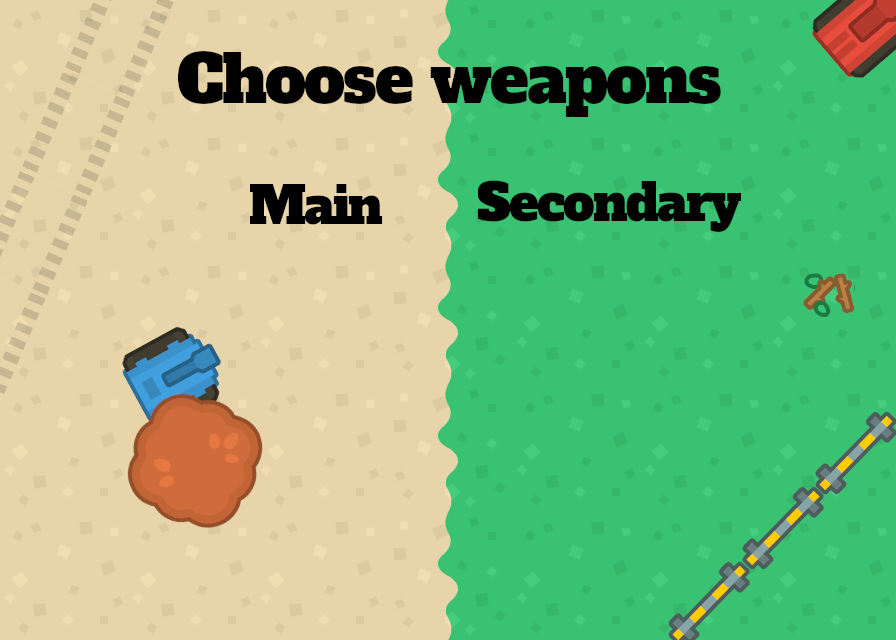
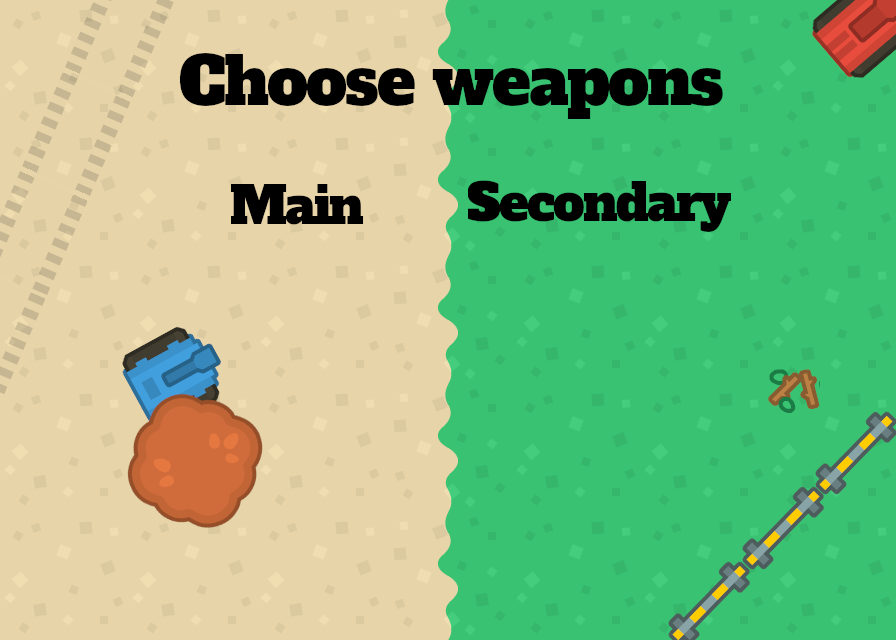
esto ya es mas robusto q el pan bimbo

diff --git a/docs/server.js b/docs/server.js
@@ -38,90 +38,95 @@ app.use('/menus', express.static('menus'));
 
 
 io.on('connection', socket => {
-  if(clients.length<2){
-      console.log('a user connected');
-      clients.push(socket);
+  if (clients.length < 2) {
+    console.log('a user connected');
+    clients.push(socket);
 
 
 
-  clients[0].on('numeroJugador', () => { //simepre existira
-    let n = { numero: 0 };
-    clients[0].emit('numeroJugador', n);
-  });
-
-
-  if (clients[1]) { //cuando se conecta el segundo jugador
-    clients[1].on('numeroJugador', () => {
-      let n = { numero: 1 };
-      clients[1].emit('numeroJugador', n);
+    clients[0].on('numeroJugador', () => { //simepre existira
+      let n = { numero: 0 };
+      clients[0].emit('numeroJugador', n);
     });
-  }
 
 
-  socket.on('numeroDeJugadores', numJugador => {
-      clients[numJugador].emit('numeroDeJugadores', clients.length);
-  })
+    if (clients[1]) { //cuando se conecta el segundo jugador
+      clients[1].on('numeroJugador', () => {
+        let n = { numero: 1 };
+        clients[1].emit('numeroJugador', n);
+      });
+    }
 
 
-  this.jugadoresEsperando = { jugador1: false, jugador2: false }
-  socket.on('empezar', numJugador => { //cuando se le da a empezar partida
-    if (clients.length == 2) {
-      if (numJugador == 0) this.jugadoresEsperando.jugador1 = true;
-      else this.jugadoresEsperando.jugador2 = true;
-
-      console.log(this.jugadoresEsperando);
-      if (!this.jugadoresEsperando.jugador1 || !this.jugadoresEsperando.jugador2) {
-        socket.emit("respuestaJugadoresEsperando", false); //solo tiene que avisar a uno de los dos
-      }
+    socket.on('numeroDeJugadores', () => { //avisa a los dos para q empiecen a la vez
+      if (clients.length == 1) clients[0].emit('numeroDeJugadores', clients.length);
       else {
-        clients[0].emit("respuestaJugadoresEsperando", true); //solo tiene que avisar a uno de los dos
-        clients[1].emit("respuestaJugadoresEsperando", true); //solo tiene que avisar a uno de los dos
-      } //avisa a los dos aun q de momento esto peta (creo)
-    }
-    else console.log("Falta un jugador por conectarse");
-  })
+        clients[0].emit('numeroDeJugadores', clients.length);
+        clients[1].emit('numeroDeJugadores', clients.length);
+      }
+
+    })
 
 
-  socket.on('update', data => { //actualiza al jugador 2
-    if (clients.length == 2) clients[1].emit('update', data); //se lo envia directo
-  })
-
-
-  socket.on('explosion', data => {
-    clients[1].emit('explosion', data);
-  })
-
-
-  socket.on('updateP2', data => {
-    clients[0].emit('updateP2', data);
-  });
-
-  socket.on('disparoP2', data => {
-    clients[0].emit('disparoJ2', data);
-  });
-
-
-  socket.on('finDeJuego', perdedor => {
     this.jugadoresEsperando = { jugador1: false, jugador2: false }
+    socket.on('empezar', numJugador => { //cuando se le da a empezar partida
+      if (clients.length == 2) {
+        if (numJugador == 0) this.jugadoresEsperando.jugador1 = true;
+        else this.jugadoresEsperando.jugador2 = true;
 
-    console.log('Perdedor: ' + perdedor);
+        console.log(this.jugadoresEsperando);
+        if (!this.jugadoresEsperando.jugador1 || !this.jugadoresEsperando.jugador2) {
+          socket.emit("respuestaJugadoresEsperando", false); //solo tiene que avisar a uno de los dos
+        }
+        else {
+          clients[0].emit("respuestaJugadoresEsperando", true); //solo tiene que avisar a uno de los dos
+          clients[1].emit("respuestaJugadoresEsperando", true); //solo tiene que avisar a uno de los dos
+        } //avisa a los dos aun q de momento esto peta (creo)
+      }
+      else console.log("Falta un jugador por conectarse");
+    })
 
-    if(perdedor == 0) clients[1].emit('finDeJuego', true);
-    else {
-      clients[0].emit('finDeJuego');
-      clients[1].emit('finDeJuego', false);
-    }
-  })
 
-  socket.on('sonido', sonido => {
-    clients[1].emit('sondip', sonido);
-  })
+    socket.on('update', data => { //actualiza al jugador 2
+      if (clients.length == 2) clients[1].emit('update', data); //se lo envia directo
+    })
 
 
-  socket.on('disconnect', () => {
-    console.log('a user disconnected');
-    clients.splice(clients.indexOf(socket), 1); // lo sacamos del array
-  });
+    socket.on('explosion', data => {
+      clients[1].emit('explosion', data);
+    })
+
+
+    socket.on('updateP2', data => {
+      clients[0].emit('updateP2', data);
+    });
+
+    socket.on('disparoP2', data => {
+      clients[0].emit('disparoJ2', data);
+    });
+
+
+    socket.on('finDeJuego', perdedor => {
+      this.jugadoresEsperando = { jugador1: false, jugador2: false }
+
+      console.log('Perdedor: ' + perdedor);
+
+      if (perdedor == 0) clients[1].emit('finDeJuego', true);
+      else {
+        clients[0].emit('finDeJuego');
+        clients[1].emit('finDeJuego', false);
+      }
+    })
+
+    socket.on('sonido', sonido => {
+      clients[1].emit('sondip', sonido);
+    })
+
+
+    socket.on('disconnect', () => {
+      console.log('a user disconnected');
+      clients.splice(clients.indexOf(socket), 1); // lo sacamos del array
+    });
   }
 });
 

diff --git a/docs/menus/menuArmas.js b/docs/menus/menuArmas.js
@@ -18,6 +18,7 @@ export default class MenuArmas extends Phaser.Scene {
         this.load.image('rebotador', 'assets/iconoRebotador.png');
         this.load.image('mortero', 'assets/iconoMortero.png');
         this.load.image('iconoSeleccion', 'assets/iconoSeleccionado.png');
+        this.load.image('waiting', 'assets/botonwaiting.png');
 
         this.load.audio('click', 'assets/menuclick.wav');
     }
@@ -25,13 +26,15 @@ export default class MenuArmas extends Phaser.Scene {
 
     create() {
         this.fondo = this.add.image(448, 320, 'fondoArmas'); //fondo provisional
-        this.botonSimple = this.add.image(325, 292, 'disparoSimple').setInteractive();
-        this.botonRafagas = this.add.image(325, 464, 'rafagas').setInteractive();
-        this.botonRebotador = this.add.image(608, 292, 'rebotador').setInteractive();
-        this.botonMortero = this.add.image(608, 464, 'mortero').setInteractive();
-        this.boton = this.add.image(470, 580, 'botonStart').setInteractive().setScale(0.5);
+        this.botonSimple = this.add.image(298, 292, 'disparoSimple').setInteractive();
+        this.botonRafagas = this.add.image(298, 464, 'rafagas').setInteractive();
+        this.botonRebotador = this.add.image(598, 292, 'rebotador').setInteractive();
+        this.botonMortero = this.add.image(598, 464, 'mortero').setInteractive();
+        this.boton = this.add.image(448, 580, 'botonStart').setInteractive().setScale(0.5);
         this.seleccionPrincipal = this.add.image(-50, -50, 'iconoSeleccion');
         this.seleccionSecundaria = this.add.image(-50, -50, 'iconoSeleccion');
+
+        this.botonClicked = false;
 
         this.clickAudio = this.sound.add('click');
         this.botonSimple.on('pointerdown', () => {
@@ -65,7 +68,9 @@ export default class MenuArmas extends Phaser.Scene {
 
         this.boton.on('pointerdown', () => {
             this.clickAudio.play();
-            if (this.armaPrincipalSeleccionada != "" && this.armaSecundariaSeleccionada != "") {
+            
+            if (this.armaPrincipalSeleccionada != "" && this.armaSecundariaSeleccionada != "" && !this.botonClicked) {
+                this.add.image(448, 375, 'waiting');
                 this.socket.emit("empezar", this.numPlayer); //avisa al server de que hay un juegador esprando
 
                 this.socket.on('respuestaJugadoresEsperando', comienzo => {
@@ -75,6 +80,7 @@ export default class MenuArmas extends Phaser.Scene {
                     }
                     else console.log("Esperando a otro jugador para empezar la partida");
                 })
+                this.botonClicked = true;
             };
         })
     }

diff --git a/docs/menus/menu.js b/docs/menus/menu.js
@@ -3,7 +3,7 @@ export default class Menu extends Phaser.Scene {
         super({ key: 'menu' });
     }
 
-    init(data){
+    init(data) {
         this.socket = data.s;
         this.numPlayer = data.numP;
     }
@@ -11,21 +11,34 @@ export default class Menu extends Phaser.Scene {
     preload() {
         this.load.image('botonPlay', 'assets/botonplay.png');
         this.load.image('fondoInicio', 'assets/fondoMenu.png');
+        this.load.image('onemoreneeded', 'assets/onemoreplayer.png')
 
         this.load.audio('click', 'assets/menuclick.wav');
     }
 
     create() {
         this.clickAudio = this.sound.add('click');
+
+        this.oneMore = true;
+
         this.add.image(448, 320, 'fondoInicio'); //fondo provisional
         this.boton = this.add.image(448, 268, 'botonPlay').setInteractive().setScale(0.7);
         this.boton.on('pointerdown', () => { //se le ha dado a jugar
             this.clickAudio.play();
-            this.socket.emit('numeroDeJugadores', this.numPlayer);
+            if(this.oneMore) this.add.image(448, 450, 'onemoreneeded');
+
+            this.socket.emit('numeroDeJugadores');
 
             this.socket.on('numeroDeJugadores', numero => {
-                if(numero == 2)this.scene.start('menuArmas',{s:this.socket, numP:this.numPlayer}); //main = el key de la escena Game
-            })            
+                if (numero == 2) {
+                    this.scene.start('menuArmas', { s: this.socket, numP: this.numPlayer }); //main = el key de la escena Game
+                }
+                else if (numero == 1) {
+                   this.oneMore = true;
+                }
+            })
+
+
         })
     }
 }
